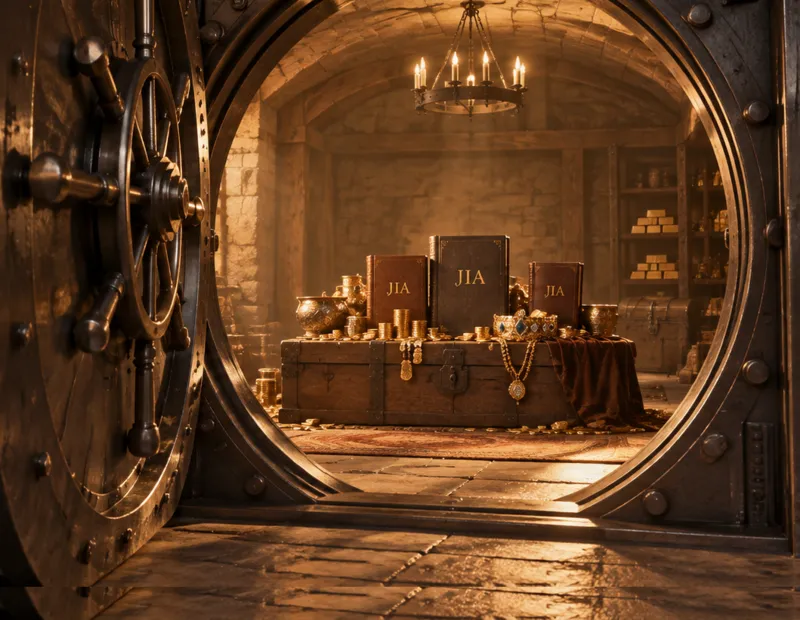
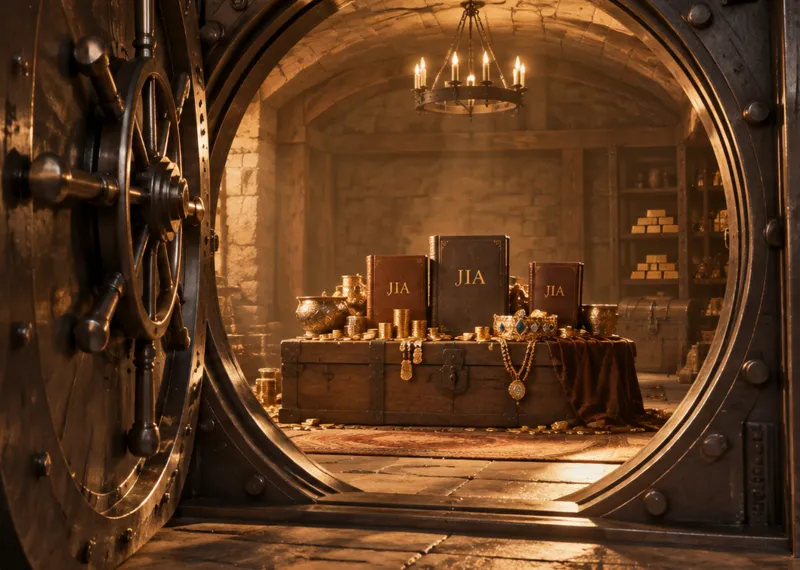
feat(JIA-2026-09-18-06): Propuestas split — lower height, 53% visual column, 8% bottom crop, half right padding

diff --git a/components/site/Section.module.css b/components/site/Section.module.css
@@ -61,20 +61,23 @@
   width: min(100% - 2 * var(--gutter), var(--container));
   margin-inline: auto;
 }
-.split .head { padding-top: var(--space-section); }
-.split > :not(.head):not([data-visual]) { padding-bottom: var(--space-section); }
+.split .head { padding-top: var(--split-y, clamp(2.5rem, 5vw, 4rem)); }
+.split > :not(.head):not([data-visual]) { padding-bottom: var(--split-y, clamp(2.5rem, 5vw, 4rem)); }
 @media (min-width: 900px) {
   .split {
-    grid-template-columns: minmax(0, 55fr) minmax(0, 45fr);
+    /* The visual column is 53% (45% raised by 18%); the text column's right
+       padding is half its left one, so the copy sits close to the photograph. */
+    grid-template-columns: minmax(0, 47fr) minmax(0, 53fr);
     align-items: center;
   }
   .split .head,
   .split > :not(.head):not([data-visual]) {
+    --split-left: max(var(--gutter), calc((100vw - var(--container)) / 2));
     grid-column: 1;
     width: auto;
     margin-inline: 0;
-    padding-left: max(var(--gutter), calc((100vw - var(--container)) / 2));
-    padding-right: clamp(2rem, 5vw, 4.5rem);
+    padding-left: var(--split-left);
+    padding-right: calc(var(--split-left) / 2);
   }
   .split .head { margin-bottom: 1.5rem; }
   .split > [data-visual] { grid-column: 2; grid-row: 1 / span 2; align-self: stretch; }

diff --git a/components/site/Proposals.tsx b/components/site/Proposals.tsx
@@ -18,7 +18,7 @@ export function Proposals({ propuestas, copy, showMarks }: Props) {
         <Action action={propuestas.action} />
       </div>
       <div className={styles.visual} data-visual="" aria-hidden="true">
-        <Surface media={propuestas.media} alt="" fallback="card" ratio={1059 / 821} sizes="(min-width: 900px) 50vw, 100vw" className={styles.visualSurface} />
+        <Surface media={propuestas.media} alt="" fallback="card" ratio={1059 / 755} sizes="(min-width: 900px) 50vw, 100vw" className={styles.visualSurface} />
         <span className={styles.visualVeil} />
       </div>
     </Section>

diff --git a/lib/content/media.ts b/lib/content/media.ts
@@ -118,9 +118,9 @@ export const MEDIA: Record<string, Media> = Object.fromEntries(
         { src: "/propuestas/camara-800.webp", width: 800 },
         { src: "/propuestas/camara-1059.webp", width: 1059 },
       ],
-      ratio: 1059 / 821,
+      ratio: 1059 / 755,
       focal: { x: 55, y: 50 },
-      original: "assets/images-website/propuestas-camara.png",
+      original: "assets/images-website/propuestas-camara.png (bottom 8% cropped at build)",
       license: "Imagen aportada por el promotor el 18-09-2026 (origen y licencia por confirmar)",
     },
     {

diff --git a/components/site/Proposals.module.css b/components/site/Proposals.module.css
@@ -27,7 +27,7 @@
 @media (min-width: 900px) {
   .visual {
     height: 100%;
-    min-height: 32rem;
+    min-height: 28rem;
   }
   .visualSurface {
     position: absolute !important;

diff --git a/DESIGN.md b/DESIGN.md
@@ -212,7 +212,7 @@ components:
 > Update 2026-09-18 (JIA-2026-09-18-05): the Jornadas opening mirrors maryna-ventura's "Servicios" spread — photograph bleeding on the left (58/42 grid at ≥900px), solid `--jia-dune` panel on the right carrying title, lede and a small pinned poster (`PosterCard size="small"`, 10rem, hover label hidden, still opens full size). The veil is transparent over the rider (0% to 38%) and reaches the panel colour at the seam; on phones it runs vertically into the panel below.
 
 
-> Update 2026-09-18 (JIA-2026-09-18-06): Partners kicker 0.875rem and group labels 0.8125rem (+0.125rem each); organiser names link to their CEP sites from one data source (footer and the Partners paragraph via `{o-id}` placeholders); the footer carries the #JIA26 badge as a watermark (40rem, lower-right, 0.22 opacity, blurred 1px, linear dissolve toward the columns, extra bottom padding at ≥760px); new shared `Section .subtitle` (Alegreya italic, `--t-subtitle` clamp 1.375–1.875rem) and `layout="split"` (section without vertical padding; text column 55% carries it; `[data-visual]` column 45%, full height, bleeding top/right/bottom); Partners ground is flat `--jia-ivory`; Propuestas shows the vault photograph as its visual column.
+> Update 2026-09-18 (JIA-2026-09-18-06): Partners kicker 0.875rem and group labels 0.8125rem (+0.125rem each); organiser names link to their CEP sites from one data source (footer and the Partners paragraph via `{o-id}` placeholders); the footer carries the #JIA26 badge as a watermark (40rem, lower-right, 0.22 opacity, blurred 1px, linear dissolve toward the columns, extra bottom padding at ≥760px); new shared `Section .subtitle` (Alegreya italic, `--t-subtitle` clamp 1.375–1.875rem) and `layout="split"` (section without vertical padding; text column 47% carries it (`--split-y` 2.5–4rem; right padding = half the left); `[data-visual]` column 53%, full height, bleeding top/right/bottom); Partners ground is flat `--jia-ivory`; Propuestas shows the vault photograph as its visual column.
 
 ## Overview
 

diff --git a/docs/prompts-output/JIA-2026-09-18-06/report.md b/docs/prompts-output/JIA-2026-09-18-06/report.md
@@ -13,6 +13,8 @@
 
 | Propuestas (adenda) | La imagen es una columna real como en «Servicios»: sin padding vertical en la sección, el texto lo aporta y la fotografía ocupa toda la altura, a sangre por arriba, derecha y abajo, en el 45 % del ancho. La sección de Socios pasa a fondo Marfil plano. | `Section.module.css` (`.split`), `Proposals.module.css`, `Partners.module.css` |
 
+| Propuestas (adenda 2) | Menos altura (padding vertical de la columna de texto reducido a 2,5–4 rem), columna visual del 45 % al 53 % (+18 %), recorte del 8 % inferior de la imagen en el build (el original queda intacto) y padding derecho del texto igual a la mitad del izquierdo; todo fluido. | `Section.module.css`, `scripts/build-assets.sh`, `media.ts` |
+
 ## Verificación
 
 - `tsc --noEmit`, `check:content` (49 medios), `next build`: OK. Capturas en `evidence/` (Propuestas, socios con enlaces, pie escritorio y móvil).
